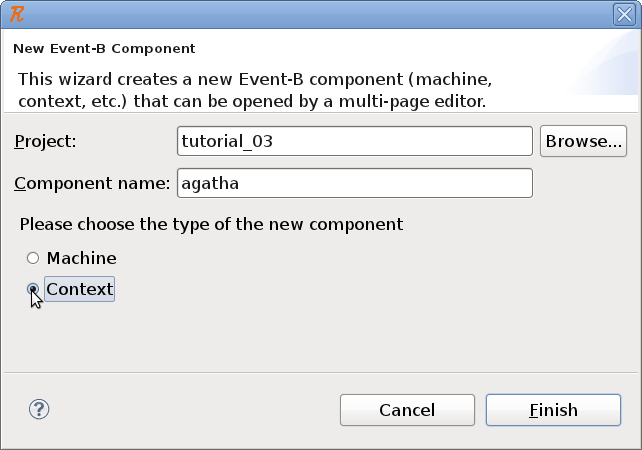
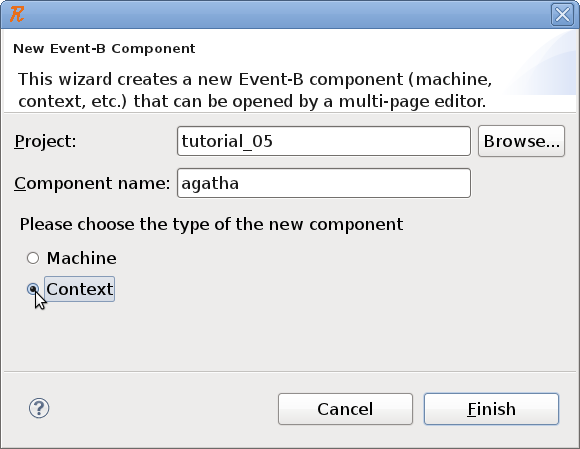
working on tutorial 05
git-svn-id: svn://svn.code.sf.net/p/rodin-b-sharp/svn/trunk/Handbook@12324 1434b563-b632-4741-aa49-43a3a8374d2e

diff --git a/org.rodinp.handbook.feature/latex/tutorial-05.tex b/org.rodinp.handbook.feature/latex/tutorial-05.tex
@@ -148,9 +148,58 @@ Since the objective of the puzzle is to find the killer, we have to create a new
 \end{description}
 }
 
-In addition, the puzzle have some more relationships between the different persons which are all modelled as axioms. For instance, if we want to model the relationship:  
+In addition, the puzzle have some more relationships between the different persons which are all modelled as axioms. We know that the killer hates his victim and is no richer than his victim:
 
-\subsection{The Final Agatha Puzzle Model}
+\pencil{
+\begin{description}
+\AXIOMS
+	\begin{description}
+		\nItemX{ killer\_hates }{ killer \mapsto  Agatha \in  hates }
+		\nItemX{ killer\_not\_richer }{ killer \mapsto  Agatha \notin  richer }
+	\end{description}
+\end{description}
+}
+
+Charles hates no one that Agatha hates and Agatha hates everybody except the butler:
+
+\pencil{
+\begin{description}
+\AXIOMS
+	\begin{description}
+		\nItemX{ charles\_hates }{ hates[\{ Agatha\} ] \binter  hates[\{ Charles\} ] = \emptyset  }
+		\nItemX{ agatha\_hates }{ hates[\{ Agatha\} ] = persons \setminus  \{ butler\}  }
+	\end{description}
+\end{description}
+}
+
+The butler hates everyone not richer than aunt Agatha and the butler hates everyone whom Agatha hates. However, no one hates everyone:
+
+\pencil{
+\begin{description}
+\AXIOMS
+	\begin{description}
+		\nItemX{ butler\_hates\_1 }{ \forall x\qdot ( x\mapsto Agatha \notin  richer \limp  butler\mapsto x \in  hates) }
+		\nItemX{ butler\_hates\_2 }{ hates[\{ Agatha\} ] \subseteq  hates[\{ butler\} ] \land 
+		\\\hspace*{3,2 cm}  (\forall  x\qdot  x\in persons \limp  hates[\{ x\} ] \neq  persons) }
+		\nItemX{ noone\_hates\_everyone }{ \forall  x \qdot  x \in  persons \land  hates[\{ x\} ] \neq  persons }
+	\end{description}
+\end{description}
+}
+
+Finally, we have to model the solution:
+
+\pencil{
+\begin{description}
+\AXIOMS
+	\begin{description}
+		\nItemX{ solution }{ killer = Agatha }
+	\end{description}
+\end{description}
+}
+
+This concludes the tutorial. The following section \ref{tut_05_final_model} shows the complete Context.
+
+\subsection{The Final Agatha Puzzle Model} \label{tut_05_final_model}
 
 \begin{description}
 \CONTEXT{agatha}
